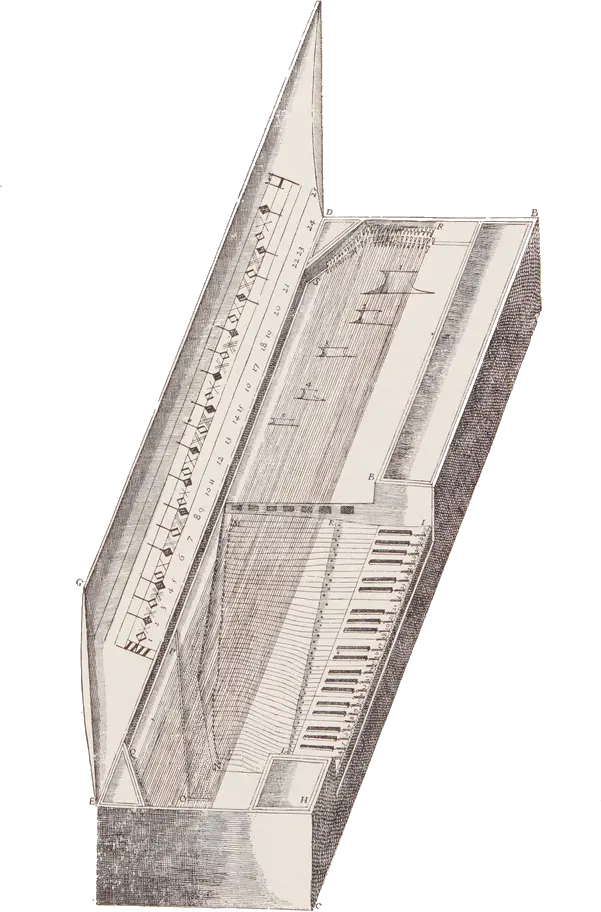
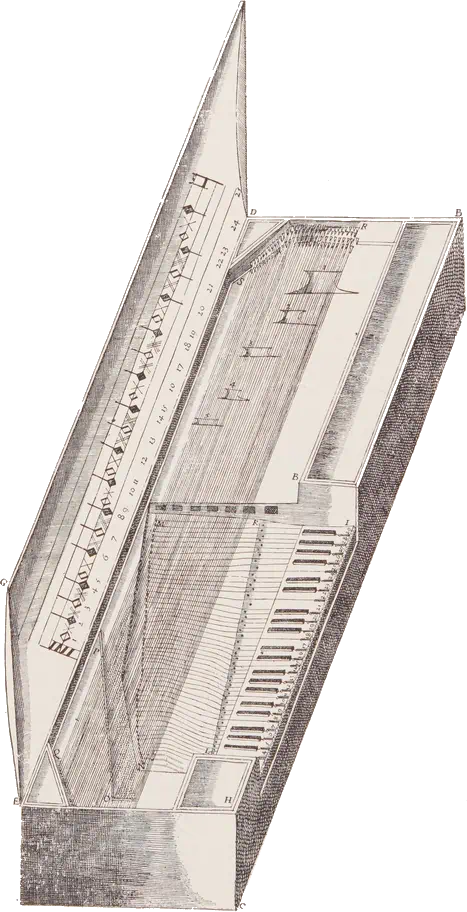
Work

diff --git a/content/posts/meresennes-clavichord.md b/content/posts/meresennes-clavichord.md
@@ -37,6 +37,7 @@ When the other end of the key is pressed, the tangent rises and strikes the stri
        src="/clavichord/models/clavichord_action_diagram.glb"
        camera-orbit="12deg 86.15deg 376.7m"
        caption="Clavichord action ([source code](https://github.com/MasonM/urbino_clavichord/blob/main/clavichord_action_diagram.scad))"
+       style="height: 400px; background-color: #ffffff"
 >}}
 
 By rocking the key slightly, the player can alter the tension of the string for the duration of the note, which changes the pitch.
@@ -66,9 +67,8 @@ As far as I know, nobody has created CAD models of clavichords before, so I took
        src="/clavichord/models/urbino_clavichord.glb"
        camera-orbit="-20.92deg 44.33deg 1300m"
        caption="The Urbino clavichord ([source code](https://github.com/MasonM/urbino_clavichord/blob/main/clavichord.scad)) ([interactive editor](https://masonm.org/urbino_clavichord.html))"
+       style="height: 400px"
 >}}
-
-
 
 ### Who is Mersenne?
 
@@ -117,13 +117,25 @@ Bavington explained his reconstruction in his excellent 2011 paper [Reconstructi
 ### Case
 
 I decided to break up the model into discrete components and model each separately, starting with the case. Bavington provided exact dimensions on the case in [Paris inches](https://en.wikipedia.org/wiki/Paris_inch), which I converted to millimeters and put into a [params.kcl](https://github.com/MasonM/mersennes_clavichord/blob/main/params.kcl) file.  
+
 Then, I asked Zookeeper to generate the code for the case's five boards. [The result it gave me](https://github.com/MasonM/mersennes_clavichord/commit/ced92cade071bbdae9460aaf3163039ab7eb18ed) was a good start, but needed manual editing. 
 Zookeeper tends to avoid code reuse, so to make edits easier, I created a [`cube()` helper inspired by OpenSCAD](https://github.com/MasonM/mersennes_clavichord/blob/eec793b1ff8edffd8e232627203b08a27487e058/utils.kcl#L7C1-L33C2) and refactored the case to use that for 4 out of the 5 boards. 
 
 {{< 3d-model
        src="/clavichord/models/case.glb"
        caption="Case ([source code](https://github.com/MasonM/mersennes_clavichord/blob/main/case.kcl))"
+       style="height: 400px"
 >}}
+
+### Toolbox and Right Compartment
+
+{{< 3d-model
+       src="/clavichord/models/toolbox_right_compartment.glb"
+       caption="Toolbox ([source](https://github.com/MasonM/mersennes_clavichord/blob/main/toolbox.kcl)) and right compartment ([source](https://github.com/MasonM/mersennes_clavichord/blob/main/right_compartment.kcl))"
+       style="height: 400px"
+>}}
+
+
 
 ### Keyboard
 
